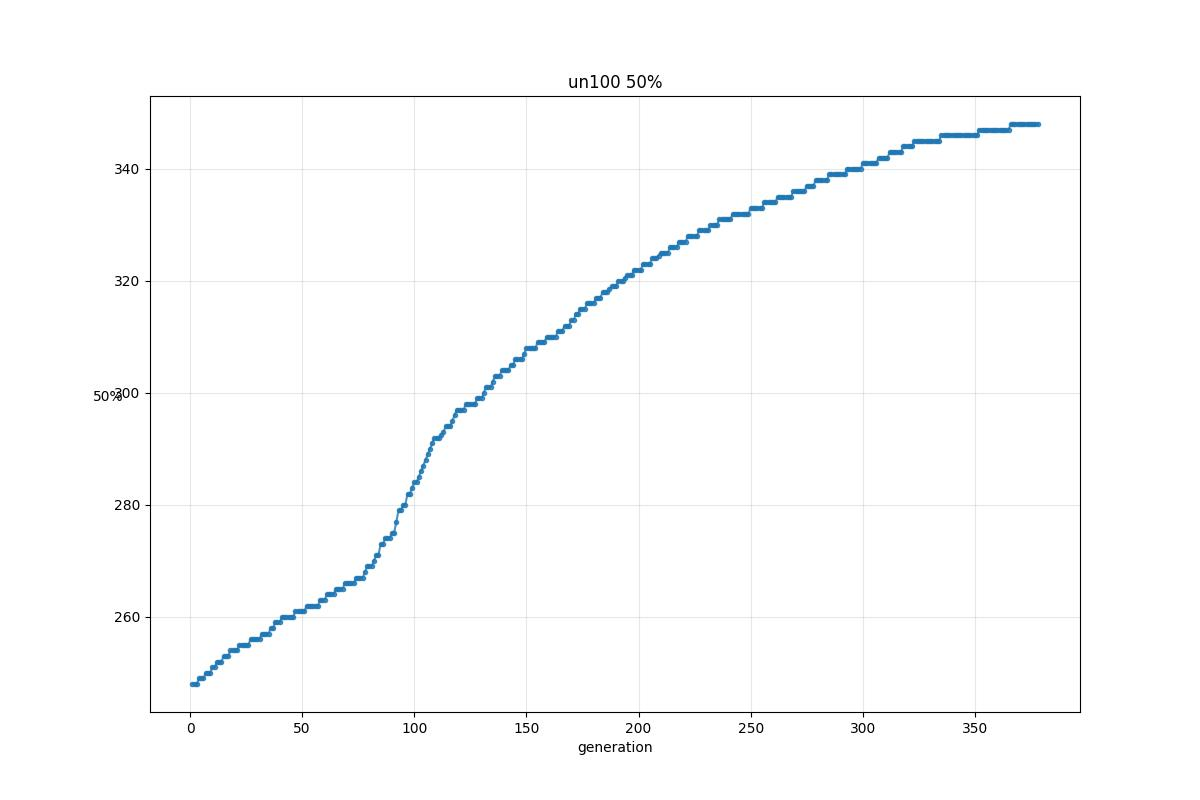
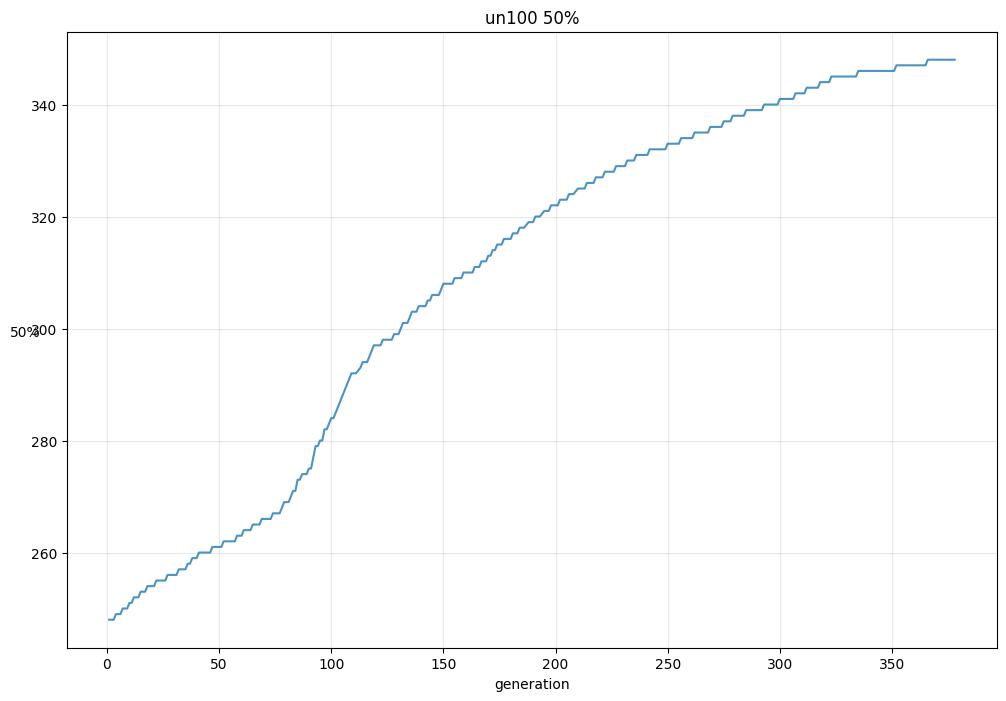
테스트 데이터 분석 자료 재생성
* 그래프 이미지의 테두리 여백을 줄임
* 일부 그래프의 폰트를 크게 함

diff --git a/20191130/data processing/GA run/ga-run-analyze.py b/20191130/data processing/GA run/ga-run-analyze.py
@@ -10,7 +10,7 @@ for col in data.columns:
     plt.figure(figsize=(12, 8))  # 그래프 크기
     plt.grid(alpha=0.3)  # 그리드 투명도
 
-    plt.plot(data.index, data[col], marker='.', alpha=0.8)
+    plt.plot(data.index, data[col], alpha=0.8)
 
     plt.title(f"un100 {col}")  # 그래프 제목에 괄호 치고 분산 표기
     # plt.ylim(data[col].min() // 10 * 10 - 10, data[col].max() // 10 * 10 + 10)  # y 값 범위 제한
@@ -18,7 +18,7 @@ for col in data.columns:
     plt.xlabel('generation')
     plt.ylabel(col, rotation='horizontal')
 
-    plt.savefig(rf'20191130\data processing\basic GA\images\un100{col}.jpg')
+    plt.savefig(rf'20191130\data processing\basic GA\images\un100{col}.jpg', bbox_inches='tight')
     plt.clf()
 
 columns = ['count', 'mean', 'std', 'min', '25%', '50%', '75%', 'max']
@@ -26,7 +26,7 @@ columns = ['count', 'mean', 'std', 'min', '25%', '50%', '75%', 'max']
 # 전체 pool 변화 그리기
 x = data.index
 
-plt.figure(figsize=(12, 8))
+plt.figure(figsize=(20, 12))
 plt.grid(alpha=0.3)
 
 plt.plot(x, data['min'], alpha=0.8)
@@ -35,12 +35,10 @@ plt.plot(x, data['50%'], alpha=0.8)
 plt.plot(x, data['75%'], alpha=0.8)
 plt.plot(x, data['max'], alpha=0.8)
 
-plt.plot(x, data['mean'], marker='.', alpha=0.5)
+plt.title(f"basic GA unweighted 100 generational change", fontsize=20)
+plt.legend(['min', '25%', '50%', '75%', 'max'], loc='upper left', fontsize=15)
 
-plt.title(f"basic GA generational change")
-plt.legend(['min', '25%', '50%', '75%', 'max', 'mean'], loc='upper left')
+plt.xlabel('generation', fontsize=20)
+plt.ylabel('cost', fontsize=20)
 
-plt.xlabel('generation')
-plt.ylabel('cost', rotation='horizontal')
-
-plt.savefig(r'20191130\data processing\basic GA\images\basic-GA-generational-change.jpg')
+plt.savefig(r'20191130\data processing\basic GA\images\basic-GA-un100-generational-change.jpg', bbox_inches='tight')

diff --git a/20191130/data processing/GA test/visualize.py b/20191130/data processing/GA test/visualize.py
@@ -34,7 +34,7 @@ def save_stat(data_route: str, file: TextIOWrapper, fig_route: str, title: str, 
     plt.ylim(data['cost'].min() // 10 * 10 - 10, data['cost'].max() // 10 * 10 + 10)  # y 값 범위 제한
     plt.yticks(rotation=0)
 
-    plt.savefig(fig_route)  # 그래프 저장
+    plt.savefig(fig_route, bbox_inches='tight')  # 그래프 저장
     return
 
 res = open(r'20191130/data processing/basic GA/test-result.txt', 'w', encoding='utf-8')
